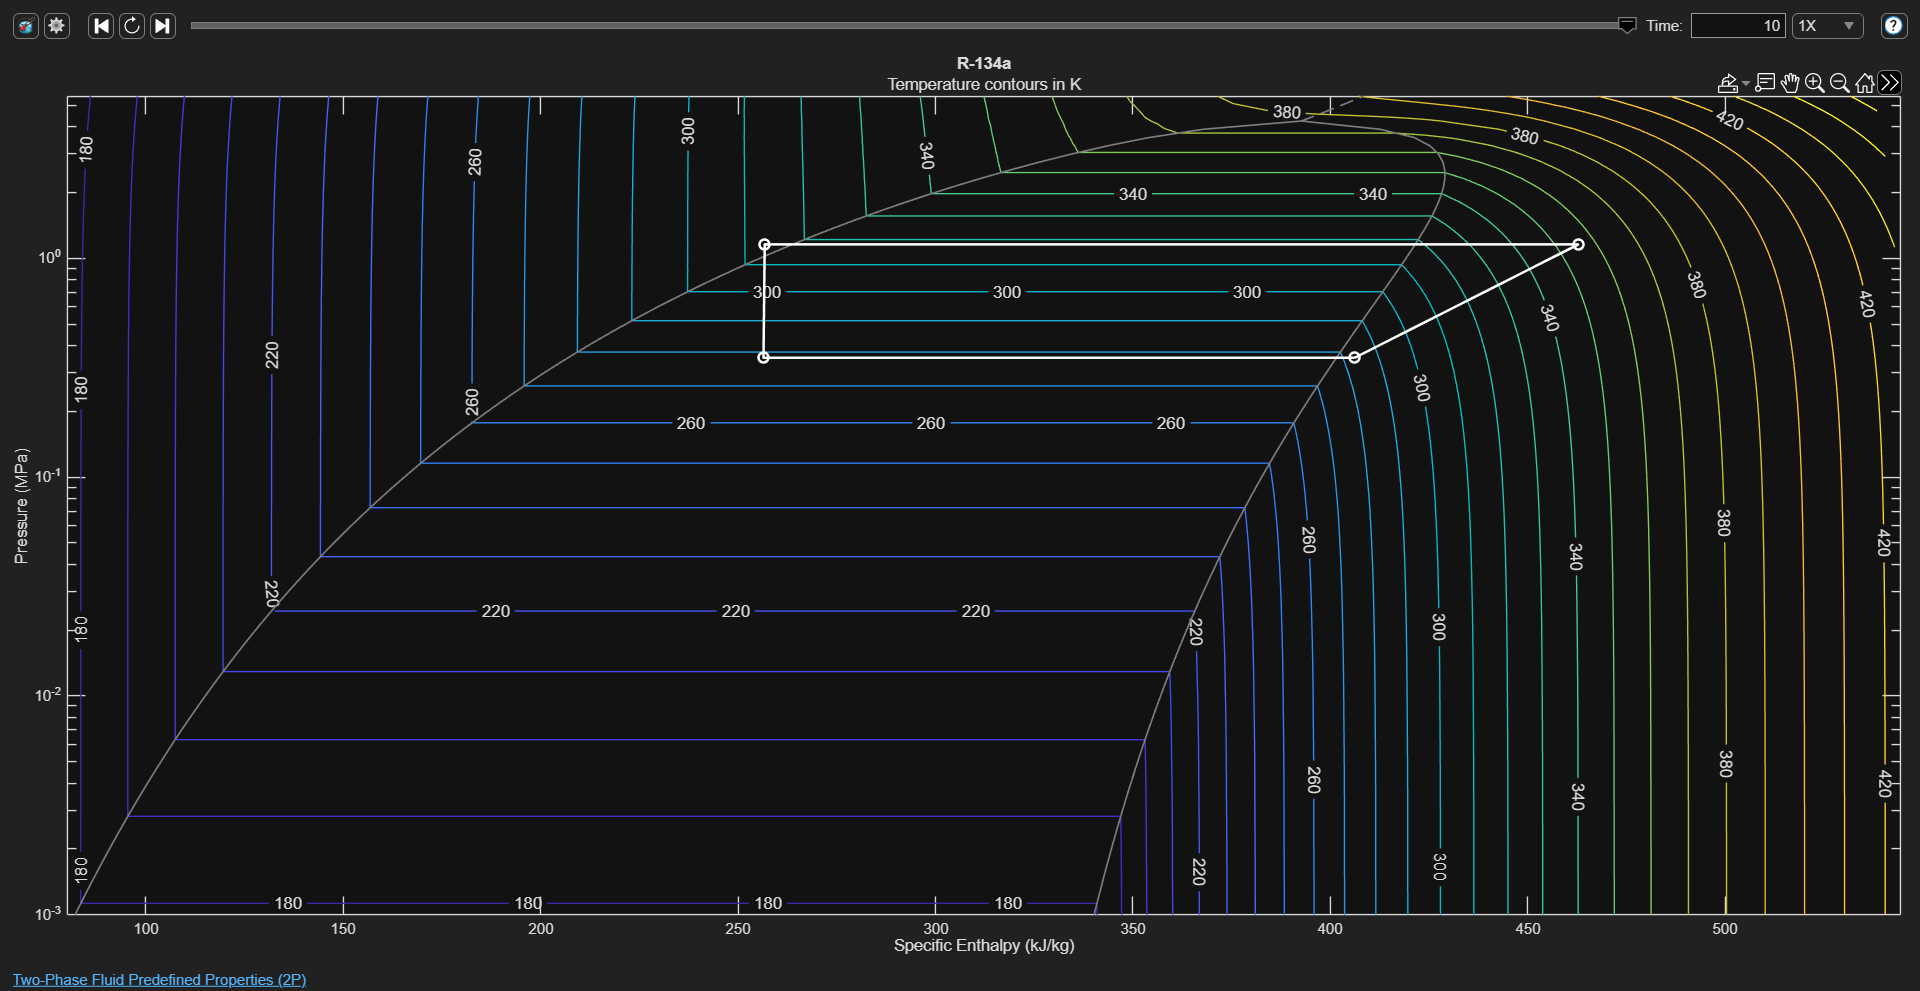
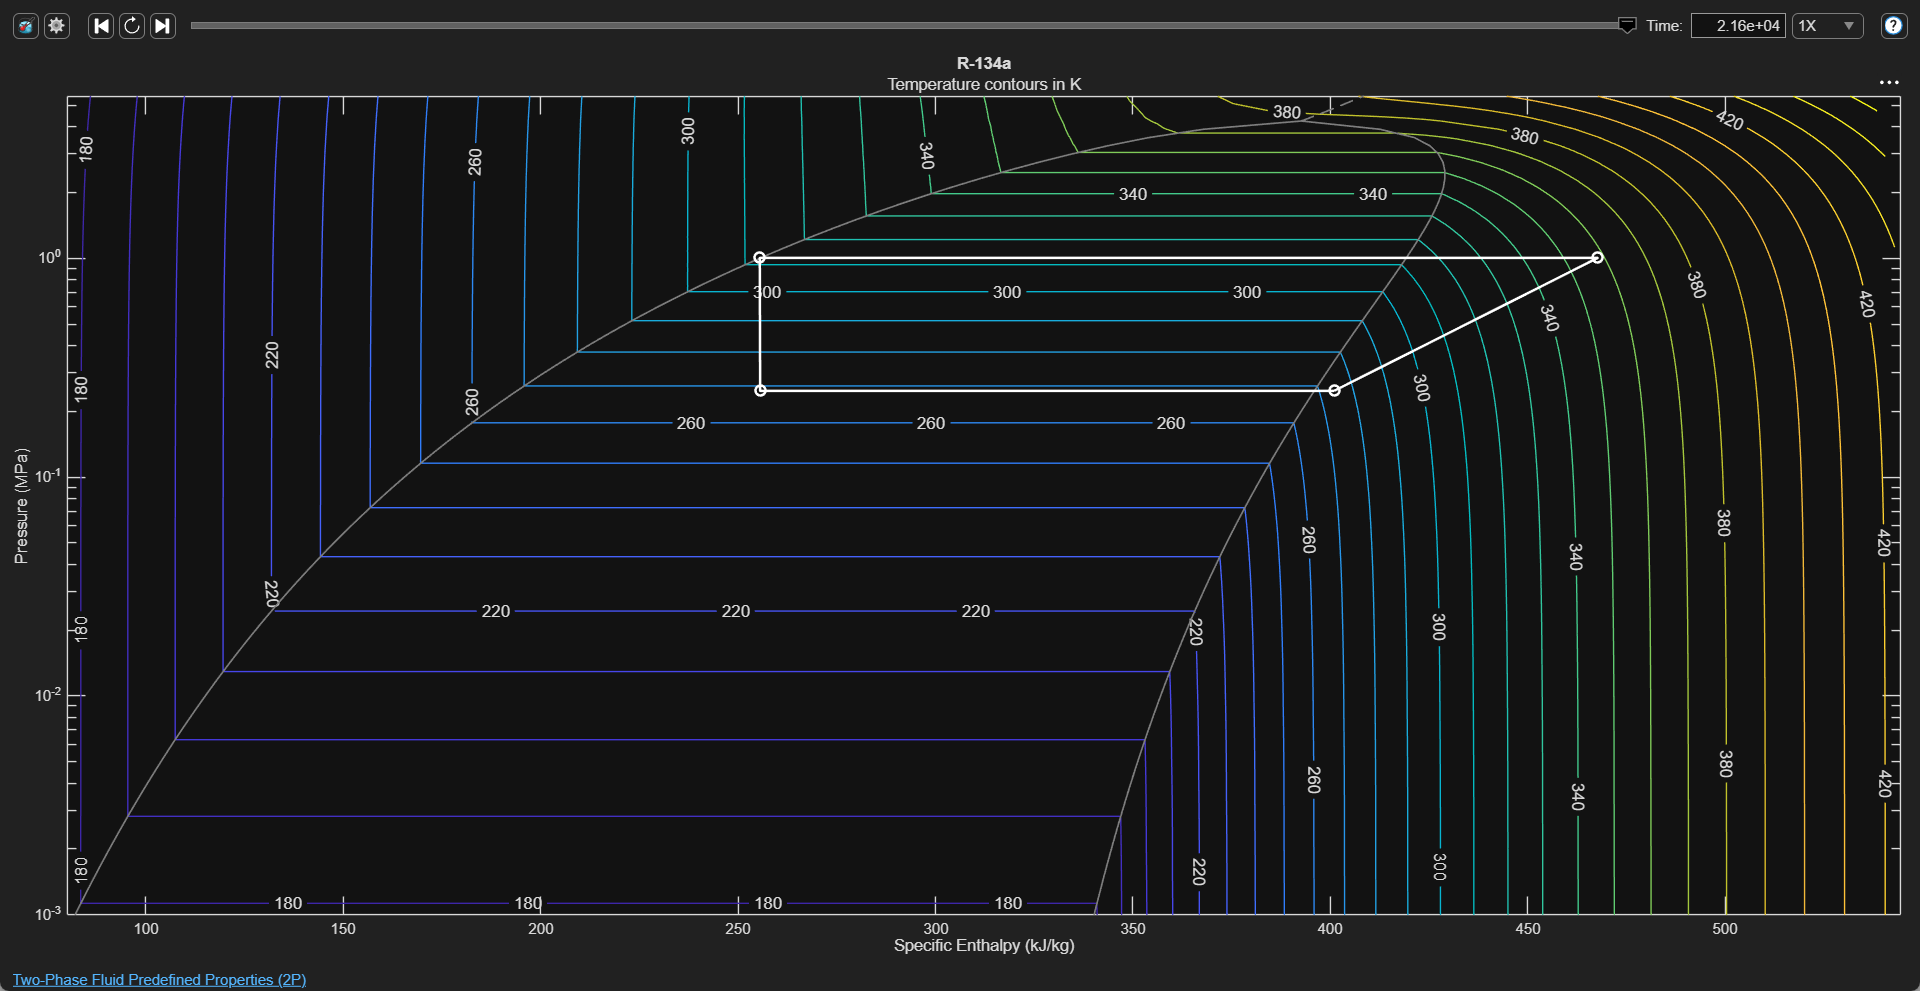
added images and updated readme

diff --git a/README.md b/README.md
@@ -3,6 +3,10 @@ A vapor-compression refrigeration cycle was developed in MATLAB/Simulink using S
 
 ![Refrigeration Cycle Model](./images/Refrigeration_Cycle_Model.png)
 
+The refrigeration cycle was coupled with a finite-volume cold-room model containing the storage air volume, tomato thermal mass, wall heat transfer, and room-to-produce convection. A 1000 kg tomato load initially at 25°C was subjected to refrigeration under a 35°C ambient condition. The six-hour simulation demonstrated continuous cooling of both the room air and stored produce. Refrigeration cooling capacity and compressor power decreased as the thermal load reduced. The model currently operates in open loop; therefore, the room temperature continues below the desired storage setpoint. Temperature regulation will be implemented in the subsequent control stage.
+
+![Cold Room Thermal Model](./images/Cold_room_thermal_model.png)
+
 ## Model Parameters
 | Parameter | Value |
 |---|---:|
